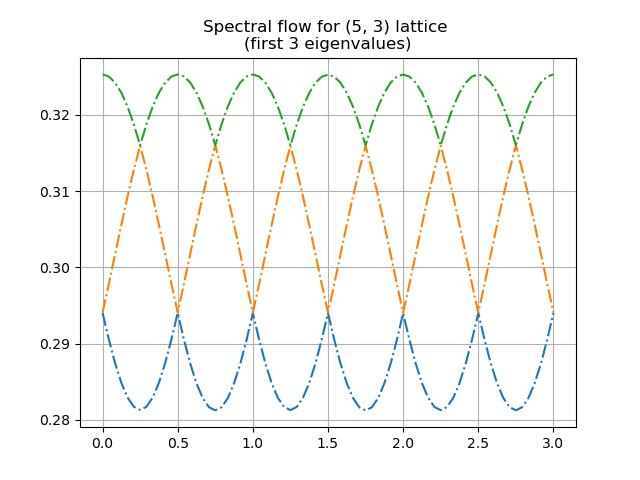
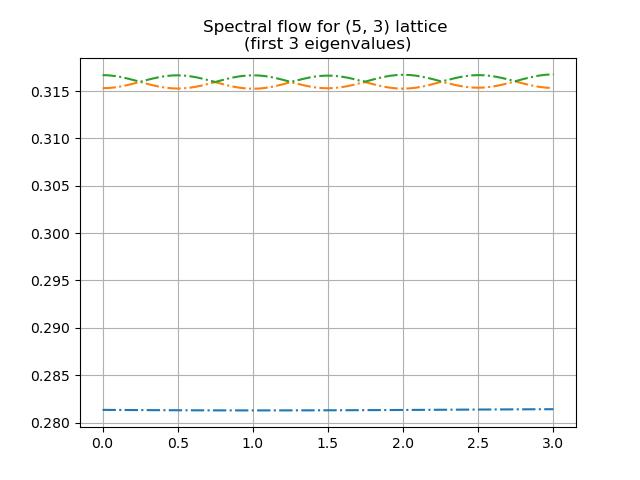
.

diff --git a/build_matrix.py b/build_matrix.py
@@ -92,7 +92,7 @@ if __name__ == "__main__":
     if build_H:
         print("Building H")
         if not (phi_y is None):
-            non_interacting_H = build_non_interacting_H(Nx, Ny, n=n,phase_shift_y= 0.25 * 2 * np.pi ,phase_shift_x= 2 * np.pi * phi_y, multi_process=multi_process,max_workers=max_workers,multiprocess_func=multiprocess_func)
+            non_interacting_H = build_non_interacting_H(Nx, Ny, n=n,phase_shift_y= 0.5 * 2 * np.pi ,phase_shift_x= 2 * np.pi * phi_y, multi_process=multi_process,max_workers=max_workers,multiprocess_func=multiprocess_func)
             os.makedirs(save_path, exist_ok=True)
             print("Saving H")
             sparse.save_npz(save_path + str(f'/H_Nx-{Nx}_Ny-{Ny}_{args.name}.npz'), non_interacting_H)
